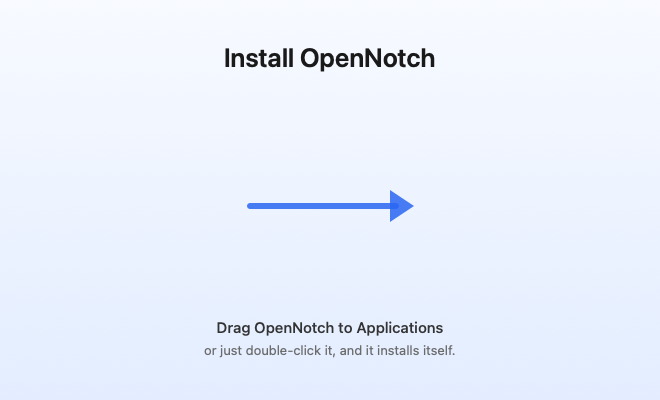
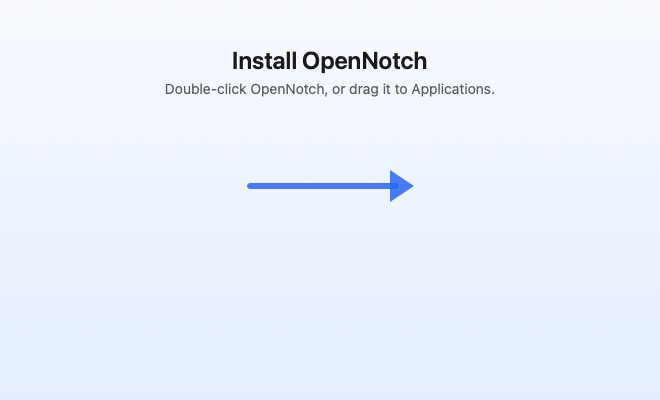
Installer window: instructions under the title so Tahoe's Finder bars can't hide them

diff --git a/scripts/make-dmg-background.swift b/scripts/make-dmg-background.swift
@@ -1,6 +1,6 @@
 // Renders the disk image window background (Resources/dmg-background.png and @2x): a title, an
 // arrow from the app to Applications, and the one-line instructions. Icons sit at x=165 and x=495,
-// y=210 (from the top) in a 660×400 window; scripts/dmg-settings.py places them there.
+// y=190 (from the top) in a 660×400 window; scripts/dmg-settings.py places them there.
 // Usage: swiftc scripts/make-dmg-background.swift -o /tmp/make-dmg-bg && /tmp/make-dmg-bg <repo root>
 import AppKit
 
@@ -29,11 +29,15 @@ func render(scale: CGFloat) -> Data {
         let height = str.size().height
         str.draw(in: NSRect(x: 0, y: y(top) - height, width: w, height: height))
     }
-    text("Install OpenNotch", size: 26, weight: .semibold, color: NSColor(white: 0.1, alpha: 1), top: 42)
+    // Everything important sits in the top two-thirds: on macOS 26, Finder draws its toolbar and
+    // path bar inside disk image windows, which covers the bottom of the picture.
+    text("Install OpenNotch", size: 24, weight: .semibold, color: NSColor(white: 0.1, alpha: 1), top: 46)
+    text("Double-click OpenNotch, or drag it to Applications.", size: 14, weight: .regular,
+         color: NSColor(white: 0.35, alpha: 1), top: 80)
 
     // Arrow from the app icon to the Applications folder.
     let accent = NSColor(red: 0.16, green: 0.40, blue: 0.95, alpha: 1)
-    let start = NSPoint(x: 250 * u, y: y(206)), end = NSPoint(x: 410 * u, y: y(206))
+    let start = NSPoint(x: 250 * u, y: y(186)), end = NSPoint(x: 410 * u, y: y(186))
     let shaft = NSBezierPath()
     shaft.move(to: start)
     shaft.line(to: NSPoint(x: end.x - 14 * u, y: end.y))
@@ -49,8 +53,6 @@ func render(scale: CGFloat) -> Data {
     accent.withAlphaComponent(0.85).setFill()
     head.fill()
 
-    text("Drag OpenNotch to Applications", size: 15, weight: .medium, color: NSColor(white: 0.2, alpha: 1), top: 318)
-    text("or just double-click it, and it installs itself.", size: 13, weight: .regular, color: NSColor(white: 0.42, alpha: 1), top: 342)
 
     NSGraphicsContext.restoreGraphicsState()
     return rep.representation(using: .png, properties: [.compressionFactor: 1.0])!

diff --git a/scripts/dmg-settings.py b/scripts/dmg-settings.py
@@ -10,10 +10,10 @@ format = "UDZO"
 files = [app]
 symlinks = {"Applications": "/Applications"}
 
-# Matches scripts/make-dmg-background.swift: icons centred at x=165/495, y=210 in a 660x400 window.
+# Matches scripts/make-dmg-background.swift: icons centred at x=165/495, y=190 in a 660x400 window.
 background = defines["background"]
 window_rect = ((200, 140), (660, 400))
-icon_locations = {name: (165, 210), "Applications": (495, 210)}
+icon_locations = {name: (165, 190), "Applications": (495, 190)}
 icon_size = 112
 text_size = 13
 default_view = "icon-view"
